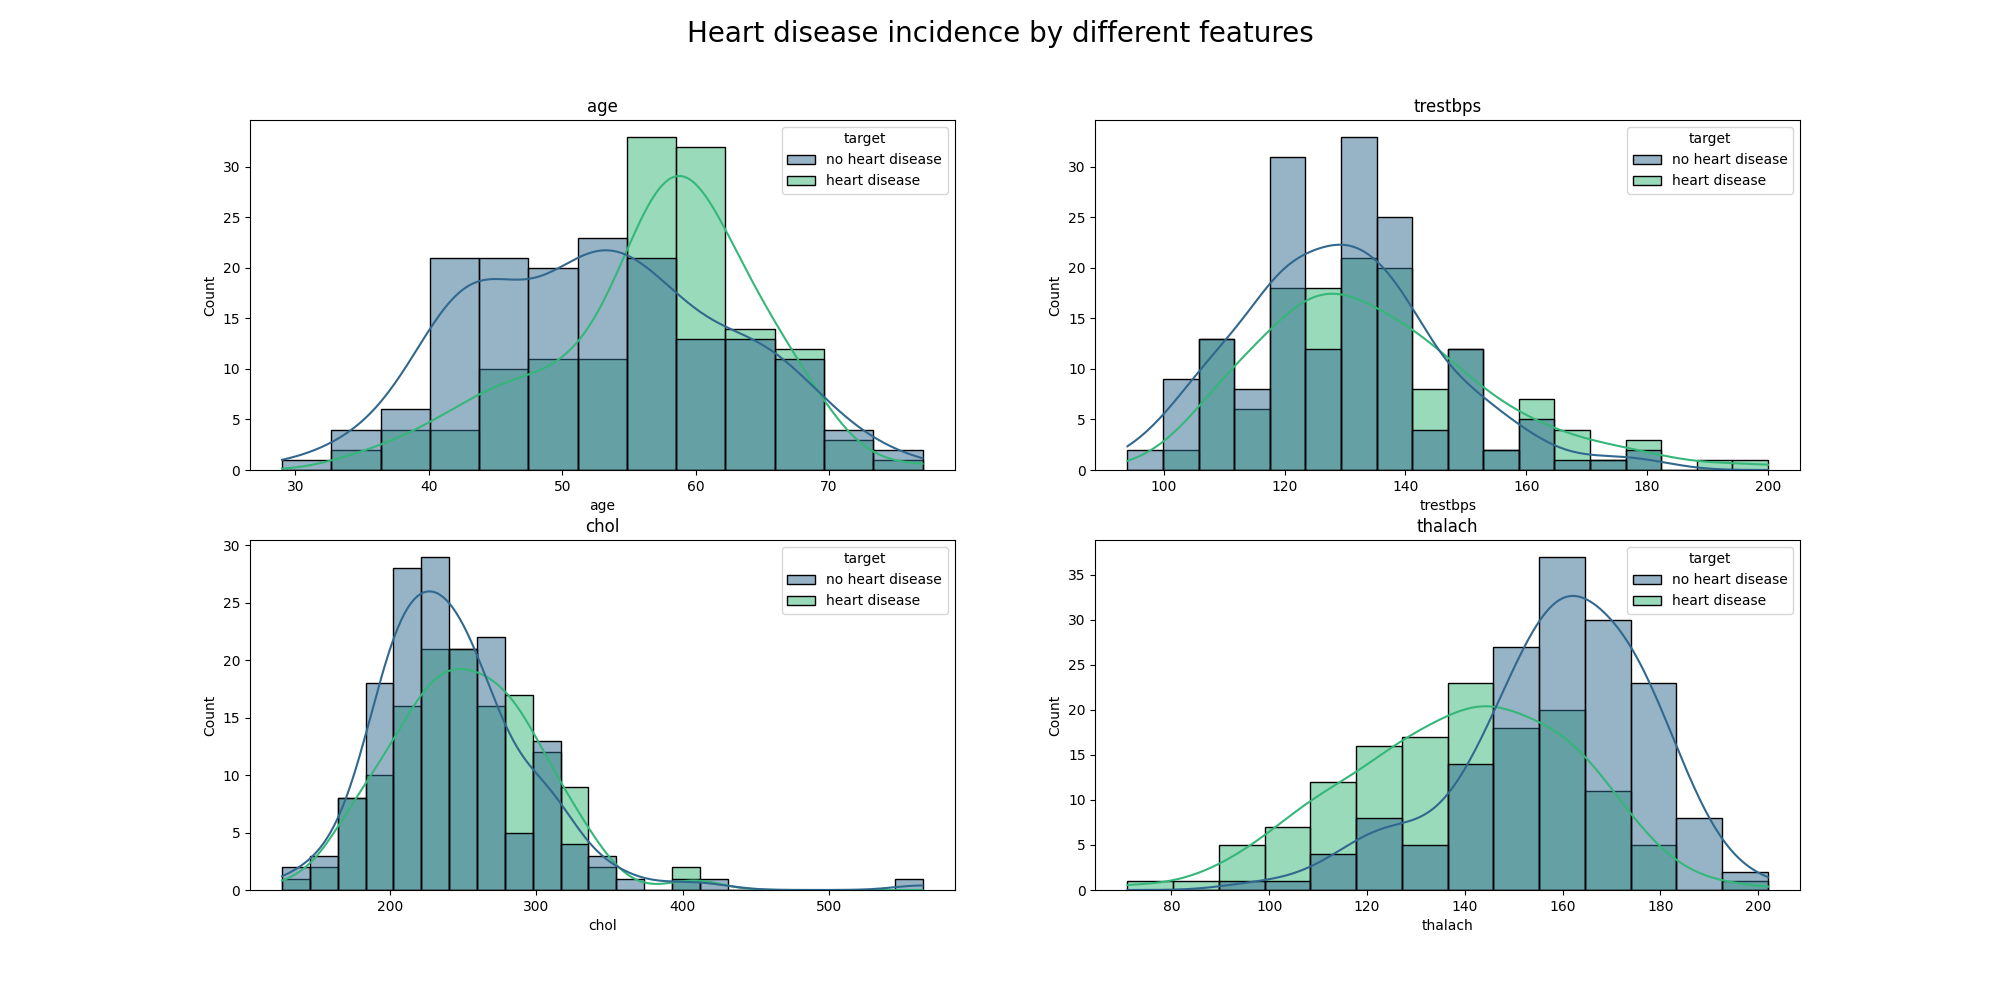
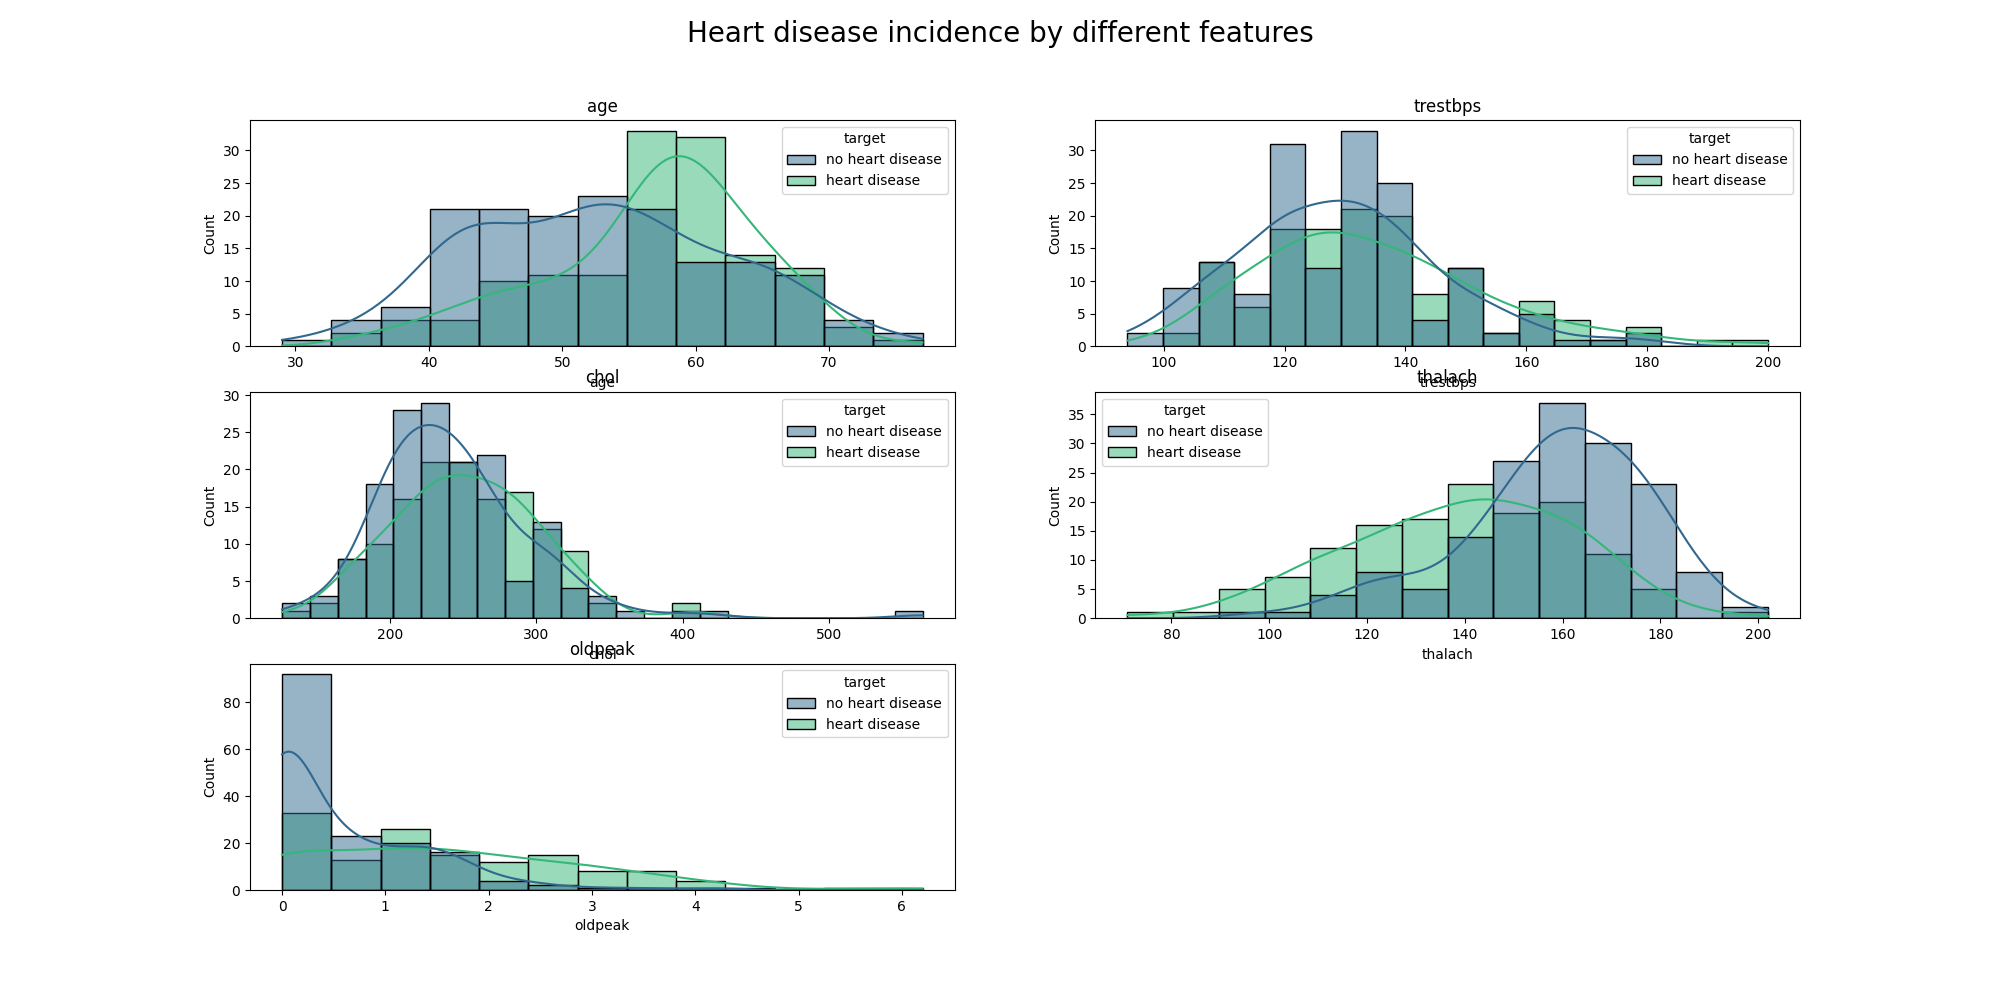
Implemented machine learning pipelines for KNeighbors, Logistic Regression, SVM, and XGBoost classifiers.

diff --git a/model.py b/model.py
@@ -1,8 +1,17 @@
+import numpy as np
 import pandas as pd
 import xgboost as xgb
+from sklearn.impute import SimpleImputer
+from sklearn.linear_model import LogisticRegression
 from sklearn.metrics import precision_score, recall_score, accuracy_score, mean_squared_error
-from sklearn.model_selection import train_test_split
-from sklearn.preprocessing import MinMaxScaler
+from sklearn.model_selection import cross_val_score, train_test_split
+from sklearn.neighbors import KNeighborsClassifier
+from sklearn.pipeline import Pipeline
+from sklearn.preprocessing import RobustScaler, StandardScaler
+from sklearn.svm import SVC
+from tabulate import tabulate
+
+from data_fetch import fetch_data
 
 
 def process_target(df):
@@ -15,37 +24,127 @@ def results(y_test, y_pred):
     precision = precision_score(y_test, y_pred, zero_division=1)
     recall = recall_score(y_test, y_pred, zero_division=1)
     accuracy = accuracy_score(y_test, y_pred)
-    confusion_matrix = pd.crosstab(y_test, y_pred, rownames=['Actual'], colnames=['Predicted'])
     mse = mean_squared_error(y_test, y_pred)
-    print_results(precision, recall, accuracy, confusion_matrix, mse)
+    print_results(precision, recall, accuracy, mse)
 
 
-def print_results(precision, recall, accuracy, confusion_matrix, mse):
-    print('Precision:', round(precision, 3))
-    print('Recall:', round(recall, 3))
-    print('Accuracy:', round(accuracy, 3))
-    print('Confusion matrix: \n', confusion_matrix)
-    print('Mean squared error:', round(mse, 3))
+def print_results(precision, recall, accuracy, mse):
+    table = [
+        ["Precision", round(precision, 3)],
+        ["Recall", round(recall, 3)],
+        ["Accuracy", round(accuracy, 3)],
+        ["Mean Squared Error", round(mse, 3)]
+    ]
+    print(tabulate(table, headers=["Metric", "Value"], tablefmt="grid"))
 
 
-df = pd.read_csv('heart_disease.csv')
-df = df.dropna()
-df.reset_index(drop=True, inplace=True)
-df = process_target(df)
+def handle_outliers(df):
+    for col in ['age', 'trestbps', 'chol', 'thalach', 'oldpeak']:
+        q1 = df[col].quantile(0.25)
+        q3 = df[col].quantile(0.75)
+        iqr = q3 - q1
+        lower_bound = q1 - 1.5 * iqr
+        upper_bound = q3 + 1.5 * iqr
+        df[col] = np.where(df[col] < lower_bound, lower_bound, df[col])
+        df[col] = np.where(df[col] > upper_bound, upper_bound, df[col])
+    return df
 
-X = df[['age', 'sex', 'cp', 'trestbps', 'chol', 'fbs', 'restecg', 'thalach', 'exang', 'oldpeak', 'slope', 'ca', 'thal']]
-y = df['target']
 
-X_train, X_test, y_train, y_test = train_test_split(X, y, test_size=0.2)
+def XGBoost_pipeline(X_train, X_test, y_train, y_test):
+    pipeline = Pipeline([
+        ('imputer', SimpleImputer(strategy='mean')),
+        ('scaler', RobustScaler()),
+        ('clf', xgb.XGBClassifier(
+            learning_rate=0.1,
+            max_depth=1,
+            n_estimators=50,
+            colsample_bytree=0.5
+        ))
+    ])
 
-scaler = MinMaxScaler()
-X_train = scaler.fit_transform(X_train)
-X_test = scaler.transform(X_test)
+    cv_scores = cross_val_score(pipeline, X_train, y_train, cv=5, scoring='accuracy')
+    pipeline.fit(X_train, y_train)
 
-model = xgb.XGBClassifier()
+    y_pred = pipeline.predict(X_test)
 
-model.fit(X_train, y_train)
+    print('Results for XGBoost pipeline:')
+    print("Mean CV accuracy:", round(np.mean(cv_scores), 3))
+    results(y_test, y_pred)
 
-y_pred = model.predict(X_test)
 
-results(y_test, y_pred)
+def SVM_pipeline(X_train, X_test, y_train, y_test):
+    pipeline = Pipeline([
+        ('imputer', SimpleImputer(strategy='mean')),
+        ('scaler', RobustScaler()),
+        ('clf', SVC())
+    ])
+
+    cv_scores = cross_val_score(pipeline, X_train, y_train, cv=5, scoring='accuracy')
+    pipeline.fit(X_train, y_train)
+
+    y_pred = pipeline.predict(X_test)
+
+    print('\n', 'Results for SVM pipeline:')
+    print("Mean CV accuracy:", round(np.mean(cv_scores), 3))
+    results(y_test, y_pred)
+
+
+def LR_pipeline(X_train, X_test, y_train, y_test):
+    pipeline = Pipeline([
+        ('imputer', SimpleImputer(strategy='mean')),
+        ('scaler', StandardScaler()),
+        ('clf', LogisticRegression())
+    ])
+
+    cv_scores = cross_val_score(pipeline, X_train, y_train, cv=5, scoring='accuracy')
+    pipeline.fit(X_train, y_train)
+
+    y_pred = pipeline.predict(X_test)
+
+    print('\n', 'Results for Logistic Regression pipeline:')
+    print("Mean CV accuracy:", round(np.mean(cv_scores), 3))
+    results(y_test, y_pred)
+
+
+def KN_pipeline(X_train, X_test, y_train, y_test):
+    pipeline = Pipeline([
+        ('imputer', SimpleImputer(strategy='mean')),
+        ('scaler', StandardScaler()),
+        ('clf', KNeighborsClassifier())
+    ])
+
+    cv_scores = cross_val_score(pipeline, X_train, y_train, cv=5, scoring='accuracy')
+    pipeline.fit(X_train, y_train)
+
+    y_pred = pipeline.predict(X_test)
+
+    print('\n', 'Results for KNeighbors pipeline:')
+    print("Mean CV accuracy:", round(np.mean(cv_scores), 3))
+    results(y_test, y_pred)
+
+
+if __name__ == "__main__":
+    try:
+        df = pd.read_csv('heart_disease.csv')
+    except FileNotFoundError:
+        fetch_data()
+        try:
+            df = pd.read_csv('heart_disease.csv')
+        except FileNotFoundError:
+            print('Error fetching data. Please try again.')
+            exit(1)
+
+    df = df.dropna().reset_index(drop=True)
+    df = process_target(df)
+    df = handle_outliers(df)
+
+    X = df[['age', 'sex', 'cp', 'trestbps', 'chol', 'fbs', 'restecg', 'thalach', 'exang', 'oldpeak', 'slope', 'ca',
+            'thal']]
+    y = df['target']
+
+    X_train, X_test, y_train, y_test = train_test_split(X, y, test_size=0.2, random_state=42)
+
+    KN_pipeline(X_train, X_test, y_train, y_test)
+    LR_pipeline(X_train, X_test, y_train, y_test)
+    SVM_pipeline(X_train, X_test, y_train, y_test)
+    XGBoost_pipeline(X_train, X_test, y_train, y_test)

diff --git a/data_visualization.py b/data_visualization.py
@@ -50,12 +50,12 @@ def print_info(df):
 
 def plot_histograms(df):
     df = map_categorical_values(df)
-    columns = ['age', 'trestbps', 'chol', 'thalach']
+    columns = ['age', 'trestbps', 'chol', 'thalach', 'oldpeak']
     plt.figure(figsize=(20, 10))
     plt.suptitle('Heart disease incidence by different features', fontsize=20)
 
     for i, column in enumerate(columns, start=1):
-        plt.subplot(2, 2, i)
+        plt.subplot(3, 2, i)
         sns.histplot(x=column, hue='target', data=df, palette='viridis', kde=True)
         plt.title(column)
 
@@ -117,6 +117,16 @@ def plots(df):
     plt.show()
 
 
+def detect_outliers(df):
+    for col_name, col_values in df[['age', 'trestbps', 'chol', 'thalach', 'oldpeak']].items():
+        q1 = col_values.quantile(0.25)
+        q3 = col_values.quantile(0.75)
+        IRQ = q3 - q1
+        outliers = col_values[(col_values <= q1 - 1.5 * IRQ) | (col_values >= q3 + 1.5 * IRQ)]
+        percentage_outliers = len(outliers) * 100.0 / len(df)
+        print("Column {} outliers = {}%".format(col_name, round(percentage_outliers, 2)))
+
+
 if __name__ == '__main__':
     try:
         df = pd.read_csv('heart_disease.csv')
@@ -131,4 +141,5 @@ if __name__ == '__main__':
     df = process_target(df)
     print_info(df)
     df = df.dropna()
+    detect_outliers(df)
     plots(df)
